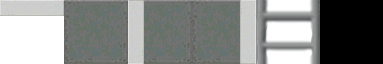
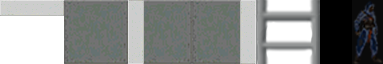
fix health stuff

Changed region(s): [[0.9191, 0.0312, 1.0, 1.0], [0.9191, 0.9688, 0.9478, 1.0]]

diff --git a/AssassinValkyrie/stageGenerator.cpp b/AssassinValkyrie/stageGenerator.cpp
@@ -48,8 +48,8 @@ bool StageGenerator::initialize(Game *gamePtr, TextureManager *textureM, int *st
 			if (horizontalElement2.element == "FLOOR")
 			{
 				floorCollection.emplace_back(new Floor());
-				success = floorCollection.back()->initialize(gamePtr, floorNS::WIDTH, floorNS::HEIGHT, 2, textureM);
-				floorCollection.back()->setCurrentFrame(0);
+				success = floorCollection.back()->initialize(gamePtr, floorNS::WIDTH, floorNS::HEIGHT, floorNS::TEXTURE_COLS, textureM);
+				floorCollection.back()->setCurrentFrame(floorNS::START_FRAME);
 				floorCollection.back()->setX(horizontalElement2.x);
 				floorCollection.back()->setStartX(horizontalElement2.x);
 				floorCollection.back()->setY(GAME_HEIGHT - horizontalElement2.y + block_height - floorNS::HEIGHT);
@@ -63,8 +63,8 @@ bool StageGenerator::initialize(Game *gamePtr, TextureManager *textureM, int *st
 			else if (horizontalElement2.element == "FILL")
 			{
 				fillCollection.emplace_back(new Fill());
-				success = fillCollection.back()->initialize(gamePtr, fillNS::WIDTH, fillNS::HEIGHT, 2, textureM);
-				fillCollection.back()->setCurrentFrame(1);
+				success = fillCollection.back()->initialize(gamePtr, fillNS::WIDTH, fillNS::HEIGHT, fillNS::TEXTURE_COLS, textureM);
+				fillCollection.back()->setCurrentFrame(fillNS::START_FRAME);
 				fillCollection.back()->setX(horizontalElement2.x);
 				fillCollection.back()->setStartX(horizontalElement2.x);
 				fillCollection.back()->setY(GAME_HEIGHT - horizontalElement2.y);
@@ -78,8 +78,8 @@ bool StageGenerator::initialize(Game *gamePtr, TextureManager *textureM, int *st
 			else if (horizontalElement2.element == "LEFT")
 			{
 				sideCollection.emplace_back(new LeftFill());
-				success = sideCollection.back()->initialize(gamePtr, fillNS::WIDTH, fillNS::HEIGHT, 3, textureM);
-				sideCollection.back()->setCurrentFrame(2);
+				success = sideCollection.back()->initialize(gamePtr, fillNS::WIDTH, fillNS::HEIGHT, fillNS::LEFT_TEXTURE_COLS, textureM);
+				sideCollection.back()->setCurrentFrame(fillNS::LEFT_FRAME);
 				sideCollection.back()->setX(horizontalElement2.x);
 				sideCollection.back()->setStartX(horizontalElement2.x);
 				sideCollection.back()->setY(GAME_HEIGHT - horizontalElement2.y);
@@ -93,8 +93,8 @@ bool StageGenerator::initialize(Game *gamePtr, TextureManager *textureM, int *st
 			else if (horizontalElement2.element == "RIGHT")
 			{
 				sideCollection.emplace_back(new RightFill());
-				success = sideCollection.back()->initialize(gamePtr, fillNS::WIDTH, fillNS::HEIGHT, 4, textureM);
-				sideCollection.back()->setCurrentFrame(3);
+				success = sideCollection.back()->initialize(gamePtr, fillNS::WIDTH, fillNS::HEIGHT, fillNS::RIGHT_TEXTURE_COLS, textureM);
+				sideCollection.back()->setCurrentFrame(fillNS::RIGHT_FRAME);
 				sideCollection.back()->setX(horizontalElement2.x);
 				sideCollection.back()->setStartX(horizontalElement2.x);
 				sideCollection.back()->setY(GAME_HEIGHT - horizontalElement2.y);
@@ -108,11 +108,11 @@ bool StageGenerator::initialize(Game *gamePtr, TextureManager *textureM, int *st
 			else if (horizontalElement2.element == "HIDEOUT")
 			{
 				hideoutCollection.emplace_back(new Hideout());
-				success = hideoutCollection.back()->initialize(gamePtr, hideoutNS::WIDTH, hideoutNS::HEIGHT, 6, textureM);
-				hideoutCollection.back()->setCurrentFrame(5);
+				success = hideoutCollection.back()->initialize(gamePtr, hideoutNS::WIDTH, hideoutNS::HEIGHT, hideoutNS::TEXTURE_COLS, textureM);
+				hideoutCollection.back()->setCurrentFrame(hideoutNS::FRAME);
 				hideoutCollection.back()->setX(horizontalElement2.x);
 				hideoutCollection.back()->setStartX(horizontalElement2.x);
-				hideoutCollection.back()->setY(GAME_HEIGHT - horizontalElement2.y);
+				hideoutCollection.back()->setY(GAME_HEIGHT - horizontalElement2.y + (fillNS::HEIGHT - floorNS::HEIGHT));
 				hideoutCollection.back()->setStartY(GAME_HEIGHT - horizontalElement2.y);
 				hideoutCollection.back()->setEdge(RECT{ (long)(-hideoutNS::WIDTH / 2), (long)(-hideoutNS::HEIGHT / 2), (long)(hideoutNS::WIDTH / 2), (long)(hideoutNS::HEIGHT / 2) });
 				hideoutCollection.back()->setCollisionType(entityNS::ROTATED_BOX);

diff --git a/AssassinValkyrie/Player.cpp b/AssassinValkyrie/Player.cpp
@@ -34,7 +34,7 @@ Player::Player() : Entity()
 
 	// yuteng didn;t add this in
 	maxHealth = playerNS::HEALTH;
-	currentHealth = playerNS::HEALTH;
+	health = playerNS::HEALTH;
 }
 
 bool Player::initialize(Game *gamePtr, int width, int height, int ncols, TextureManager *textureM)
@@ -83,7 +83,7 @@ void Player::collisions(EnemyManager *enemyList, StageGenerator *stageGen)
 
 	for (GUNNERLIST::iterator gunner = (gunnerCollection->begin()); gunner != gunnerCollection->end(); gunner++)
 	{
-		if (collidesWith(**gunner,collisionVector))
+		if (collidesWith(**gunner, collisionVector))
 		{
 
 			if (isMeleeAttacking == true)
@@ -134,7 +134,7 @@ void Player::collisions(EnemyManager *enemyList, StageGenerator *stageGen)
 		{
 			if (isMeleeAttacking == true)
 			{
-				(*serpant)->getHealth()->damage(serpantNS::HEALTH/2);
+				(*serpant)->getHealth()->damage(serpantNS::HEALTH / 2);
 				isMeleeAttacking = false;
 				if (!(*serpant)->isAlive() && (currentTotalLevel < totalLevels))
 					totalXP += 100;
@@ -156,7 +156,9 @@ void Player::collisions(EnemyManager *enemyList, StageGenerator *stageGen)
 	{
 		if ((collidesWith(**hp, collisionVector)))
 		{
-			health
+			health += (maxHealth *  0.25);
+			if ((health) >= maxHealth)
+				health = maxHealth;
 			(*hp)->setActive(false);
 			(*hp)->setVisible(false);
 			break;
@@ -178,13 +180,36 @@ void Player::collisions(EnemyManager *enemyList, StageGenerator *stageGen)
 	{
 		if ((collidesWith(**pickupStone, collisionVector)))
 		{
-			//add number of arrows
+			//add number of stones
 			(*pickupStone)->setActive(false);
 			(*pickupStone)->setVisible(false);
 			break;
 		}
 	}
 
+	HIDEOUTS *hideoutCollection = stageGen->getHideouts();
+	for (HIDEOUTS::iterator hideout = (hideoutCollection->begin()); hideout != hideoutCollection->end(); hideout++)
+	{
+		if ((collidesWith(**hideout, collisionVector)))
+		{
+			if (input->isKeyDown(ENTER_HIDEOUT))
+			{
+				(*hideout)->setCurrentFrame(hideoutNS::HIDING_FRAME);
+				visible = false;
+				active = false;
+				break;
+			}
+		}
+		else if (active == false || visible == false) {
+			if (input->isKeyDown(ENTER_HIDEOUT))
+			{
+				(*hideout)->setCurrentFrame(hideoutNS::FRAME);
+				visible = true;
+				active = true;
+				break;
+			}
+		}
+	}
 }
 
 // To find closest ship vector position

diff --git a/AssassinValkyrie/dashboard.cpp b/AssassinValkyrie/dashboard.cpp
@@ -65,7 +65,7 @@ bool Dashboard::initialize(Graphics *g, Cursor *cursor, Player *playerM)
 		throw(GameError(gameErrorNS::FATAL_ERROR, "Error initializing player bar"));
 	
 	//Health Bar
-	if (!underHealth.initialize(g, &barTexture, playerM->getHealth()))
+	if (!underHealth.initialize(g, &barTexture, playerM->getMaxHealth()))
 		throw(GameError(gameErrorNS::FATAL_ERROR, "Error initializing player health"));
 	underHealth.setX(10);
 	underHealth.setY(10);
@@ -76,8 +76,8 @@ bool Dashboard::initialize(Graphics *g, Cursor *cursor, Player *playerM)
 	playerHealth.setX(10);
 	playerHealth.setY(10);
 
-	playerMaxHealth = playerM->getCurrentHealth();
-	playerCurrentHealth = playerM->getMaxHealth();
+	playerMaxHealth = playerM->getMaxHealth();
+	playerCurrentHealth = playerM->getHealth();
 
 	// Stealth points
 	if (!stealthLevel->initialize(g, dashboardNS::SKILL_TEXT_HEIGHT, false, false, "Spectre 007"))

diff --git a/AssassinValkyrie/Player.h b/AssassinValkyrie/Player.h
@@ -55,7 +55,6 @@ protected:
 	PlayerState* state_;
 	int skillPointAvailable;
 	int maxHealth;
-	int currentHealth;
 public:
 	// constructor
 	Player();
@@ -133,12 +132,6 @@ public:
 	int getSkillPoints() { return skillPointAvailable; }
 	void useSkillPoints() { skillPointAvailable--; }
 	float calcMultipler(int level) { return 1 + (level *0.33); }
-
-	void setHealth(int i) { armorLevel++; }
-	int getArmorLevel() { return armorLevel; }
-
-	void setCurrentHealth(int i) { currentHealth = i; }
-	int getCurrentHealth() { return currentHealth; }
 
 	void setMaxHealth(int i) { maxHealth = i; }
 	int getMaxHealth() { return maxHealth; }

diff --git a/AssassinValkyrie/hideout.h b/AssassinValkyrie/hideout.h
@@ -13,7 +13,7 @@
 
 namespace hideoutNS
 {
-	const int	WIDTH = 64;
+	const int	WIDTH = 32;
 	const int	HEIGHT = 64;
 	const double ROTATION = 0;
 	const float SCALE = 1.0f;
@@ -21,9 +21,9 @@ namespace hideoutNS
 	const int	Y = GAME_HEIGHT / 2 - HEIGHT*SCALE;
 	const float SPEED = 100;
 	const float MASS = 300.0f;
-	const int   TEXTURE_COLS = 1;
-	const int   START_FRAME = 0;
-	const int   END_FRAME = 0;
+	const int   TEXTURE_COLS = 12;
+	const int   FRAME = 10;
+	const int   HIDING_FRAME = 11;
 }
 
 class Hideout : public Entity

diff --git a/AssassinValkyrie/fill.h b/AssassinValkyrie/fill.h
@@ -21,9 +21,12 @@ namespace fillNS
 	//const int	Y = GAME_HEIGHT / 2 - HEIGHT*SCALE;
 	const float SPEED = 100;
 	const float MASS = 300.0f;
-	const int   TEXTURE_COLS = 1;
-	const int   START_FRAME = 0;
-	const int   END_FRAME = 0;
+	const int   TEXTURE_COLS = 2;
+	const int   START_FRAME = 1;
+	const int	LEFT_TEXTURE_COLS = 3;
+	const int	LEFT_FRAME = 2;
+	const int	RIGHT_TEXTURE_COLS = 4;
+	const int	RIGHT_FRAME = 3;
 }
 
 class Fill : public Entity

diff --git a/AssassinValkyrie/stageGenerator.h b/AssassinValkyrie/stageGenerator.h
@@ -80,5 +80,6 @@ public:
 	HPS *getHP() { return &hpCollection; }
 	PICKUPARROWS *getPickupArrows() { return &pickupArrowCollection; }
 	PICKUPSTONES *getPickupStones() { return &pickupStoneCollection; }
+	HIDEOUTS *getHideouts() { return &hideoutCollection; }
 };
 #endif

diff --git a/AssassinValkyrie/floor.h b/AssassinValkyrie/floor.h
@@ -21,7 +21,7 @@ namespace floorNS
 	const int	Y = GAME_HEIGHT / 2 - HEIGHT*SCALE;
 	const float SPEED = 100;
 	const float MASS = 300.0f;
-	const int   TEXTURE_COLS = 1;
+	const int   TEXTURE_COLS = 2;
 	const int   START_FRAME = 0;
 	const int   END_FRAME = 0;
 }

diff --git a/AssassinValkyrie/constants.h b/AssassinValkyrie/constants.h
@@ -82,6 +82,7 @@ const UCHAR ENTER_KEY    = VK_RETURN;       // Enter key
 
 
 //control key for player ship
+const UCHAR ENTER_HIDEOUT = 'W';
 const UCHAR RUNNING_RIGHT_KEY = 'D';
 const UCHAR RUNNING_LEFT_KEY = 'A';
 const UCHAR CROUCHING_KEY = 'S';
